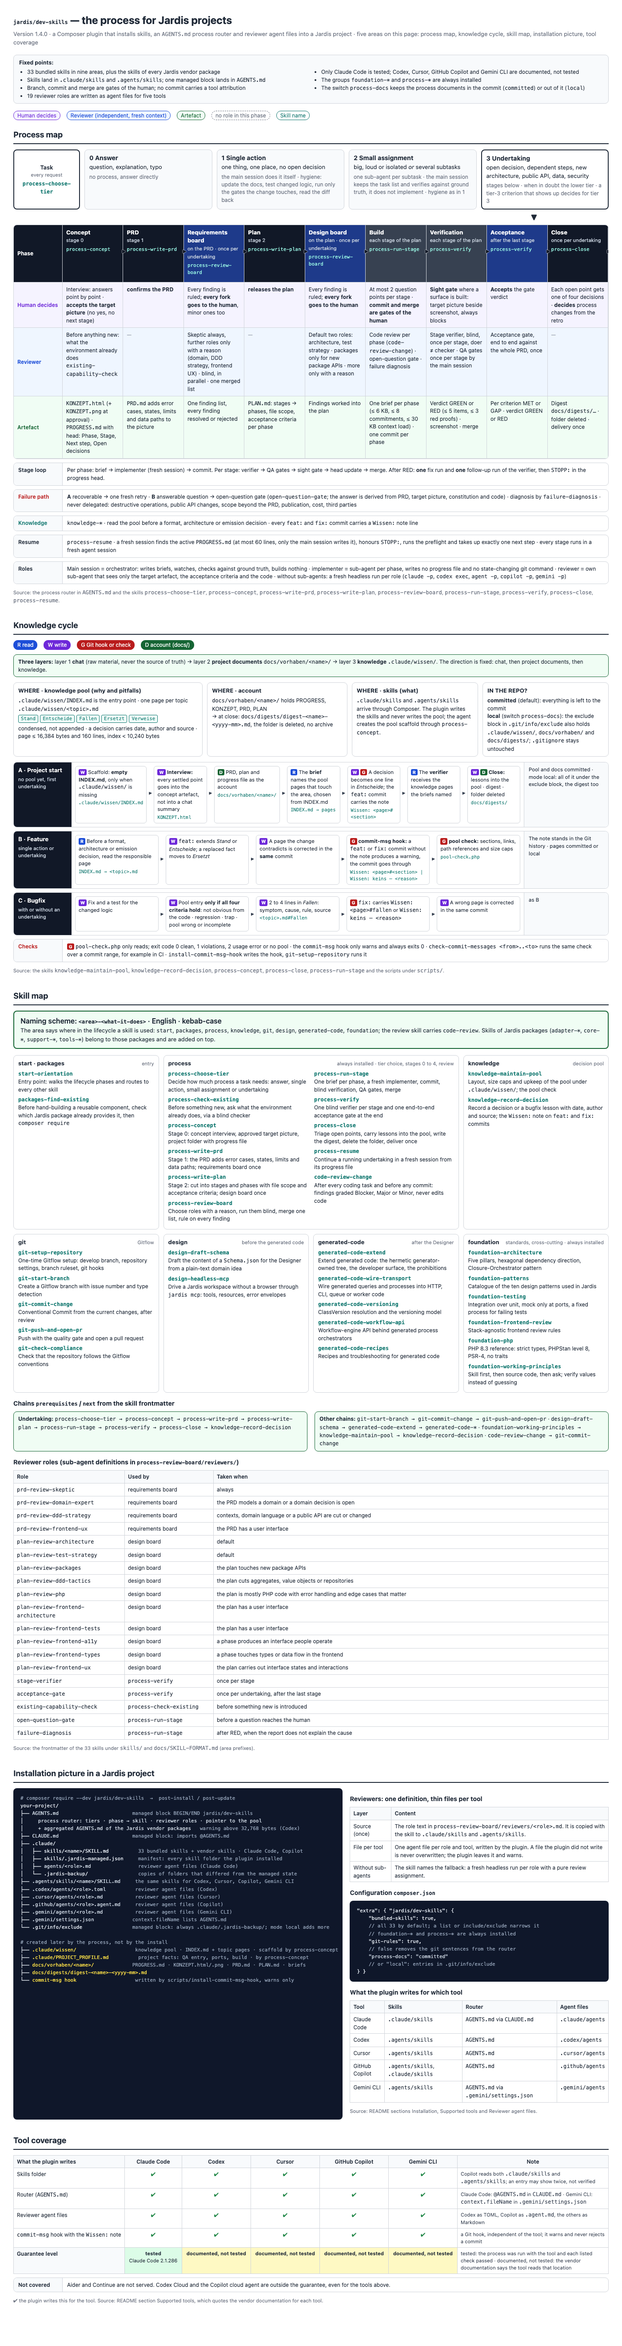
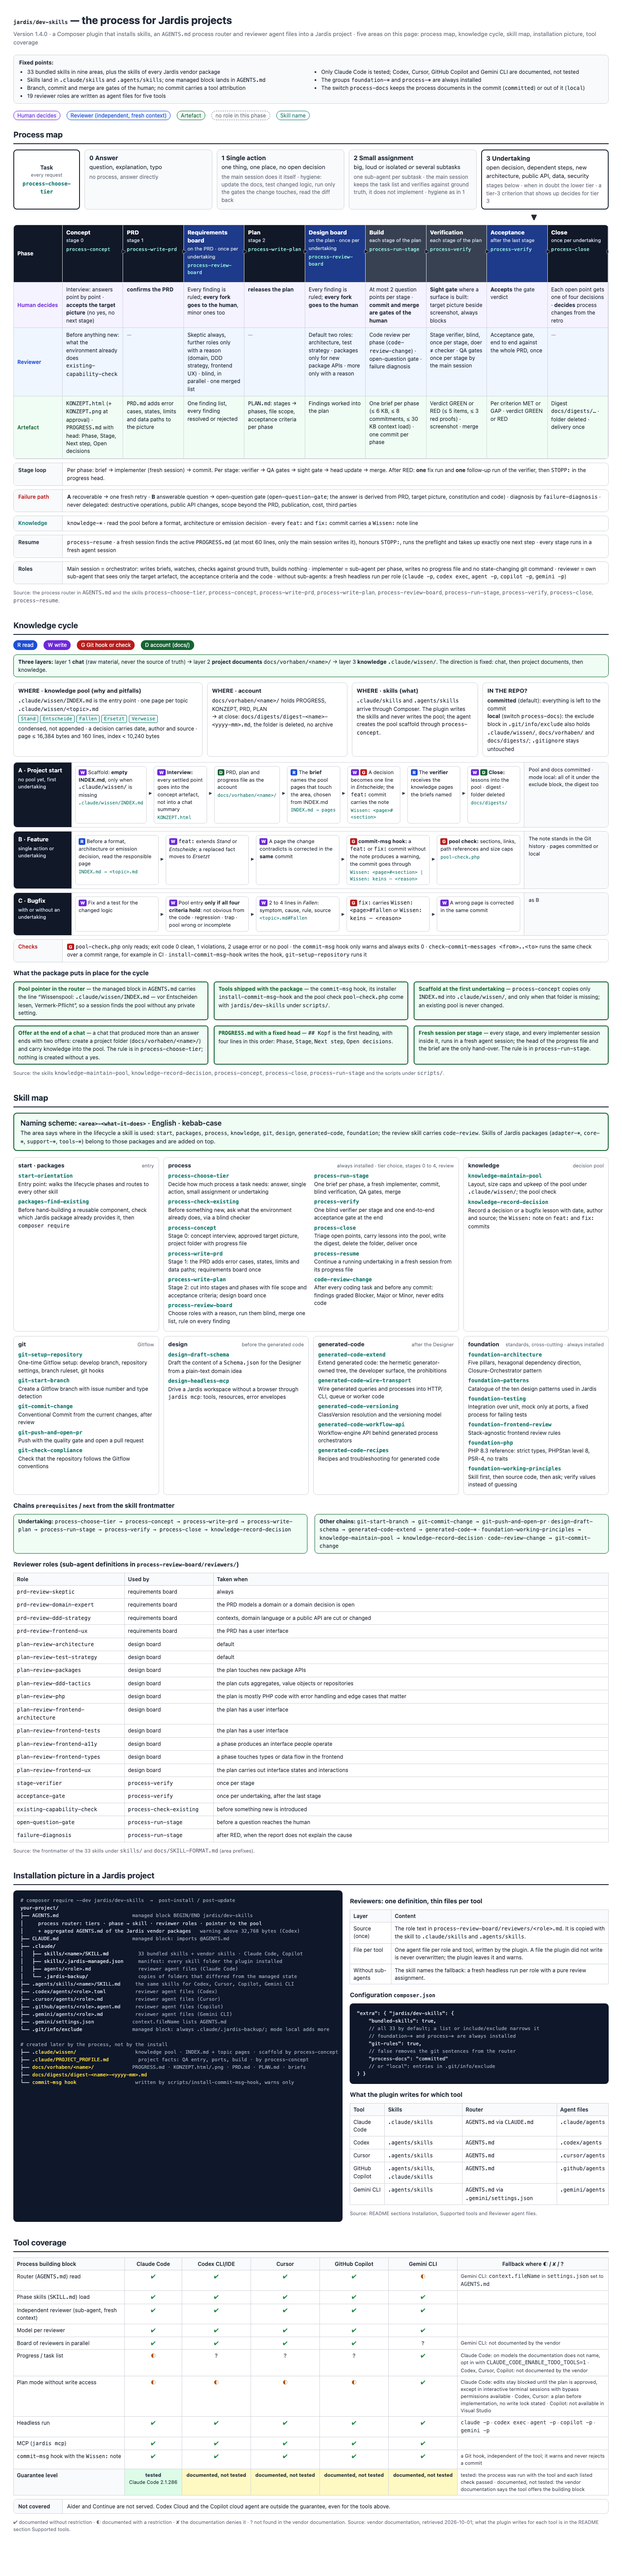
docs: fix downgrade note, add tool matrix and knowledge cards

Changed region(s): [[0.0, 0.0, 0.9829, 0.9951]]

diff --git a/docs/overview.html b/docs/overview.html
@@ -88,6 +88,11 @@ pre.tree{margin:0;overflow:hidden;font-size:11px!important;background:#0f172a;co
 .mx td.alt{text-align:left;font-size:11px;color:#374151}
 .y{color:#15803d;font-weight:700}.p{color:#b45309;font-weight:700}.n0{color:#b91c1c;font-weight:700}.q{color:var(--mute);font-weight:700}
 .guar td{font-size:11px}
+/* Cards for stated facts */
+.vcard{border:2px solid var(--vs);background:var(--vs-bg);border-radius:6px;padding:6px 9px;font-size:12px}
+.vcard b{color:#854d0e}
+.vcard.ok{border-color:var(--art);background:var(--art-bg)}
+.vcard.ok b{color:var(--art)}
 .layers{border:1px solid var(--art);background:var(--art-bg);border-radius:8px;padding:7px 10px;font-size:12px;margin-bottom:12px}
 .src{font-size:11px;color:var(--mute)}
 .fixed{border:1px solid var(--line);border-radius:8px;padding:8px 12px;background:var(--panel);font-size:12px;margin-bottom:16px}
@@ -269,6 +274,15 @@ pre.tree{margin:0;overflow:hidden;font-size:11px!important;background:#0f172a;co
 </div>
 
 <div class="band"><div class="bl" style="color:#b91c1c">Checks</div><div><span class="k g" style="display:inline-block;font-size:10px;font-weight:700;border-radius:3px;padding:0 4px;color:#fff;background:#b91c1c">G</span> <span class="mono">pool-check.php</span> only reads; exit code 0 clean, 1 violations, 2 usage error or no pool · the <span class="mono">commit-msg</span> hook only warns and always exits 0 · <span class="mono">check-commit-messages &lt;from&gt;..&lt;to&gt;</span> runs the same check over a commit range, for example in CI · <span class="mono">install-commit-msg-hook</span> writes the hook, <span class="mono">git-setup-repository</span> runs it</div></div>
+<h3>What the package puts in place for the cycle</h3>
+<div class="three">
+<div class="vcard ok"><b>Pool pointer in the router</b> — the managed block in <code>AGENTS.md</code> carries the line “Wissenspool: <code>.claude/wissen/INDEX.md</code> — vor Entscheiden lesen, Vermerk-Pflicht”, so a session finds the pool without any private setting.</div>
+<div class="vcard ok"><b>Tools shipped with the package</b> — the <code>commit-msg</code> hook, its installer <code>install-commit-msg-hook</code> and the pool check <code>pool-check.php</code> come with <code>jardis/dev-skills</code> under <code>scripts/</code>.</div>
+<div class="vcard ok"><b>Scaffold at the first undertaking</b> — <code>process-concept</code> copies only <code>INDEX.md</code> into <code>.claude/wissen/</code>, and only when that folder is missing; an existing pool is never changed.</div>
+<div class="vcard ok"><b>Offer at the end of a chat</b> — a chat that produced more than an answer ends with two offers: create a project folder (<code>docs/vorhaben/&lt;name&gt;/</code>) and carry knowledge into the pool. The rule is in <code>process-choose-tier</code>; nothing is created without a yes.</div>
+<div class="vcard ok"><b><code>PROGRESS.md</code> with a fixed head</b> — <code>## Kopf</code> is the first heading, with four lines in this order: <code>Phase</code>, <code>Stage</code>, <code>Next step</code>, <code>Open decisions</code>.</div>
+<div class="vcard ok"><b>Fresh session per stage</b> — every stage, and every implementer session inside it, runs in a fresh agent session; the head of the progress file and the brief are the only hand-over. The rule is in <code>process-run-stage</code>.</div>
+</div>
 <p class="src">Source: the skills <code>knowledge-maintain-pool</code>, <code>knowledge-record-decision</code>, <code>process-concept</code>, <code>process-close</code>, <code>process-run-stage</code> and the scripts under <code>scripts/</code>.</p>
 </section>
 
@@ -443,15 +457,21 @@ your-project/
 <section id="s5">
 <h2>Tool coverage</h2>
 <table class="mx">
-<tr><th style="width:250px">What the plugin writes</th><th>Claude Code</th><th>Codex</th><th>Cursor</th><th>GitHub Copilot</th><th>Gemini CLI</th><th style="width:340px">Note</th></tr>
-<tr><td>Skills folder</td><td class="y">✔</td><td class="y">✔</td><td class="y">✔</td><td class="y">✔</td><td class="y">✔</td><td class="alt">Copilot reads both <code>.claude/skills</code> and <code>.agents/skills</code>; an entry may show twice, not verified</td></tr>
-<tr><td>Router (<code>AGENTS.md</code>)</td><td class="y">✔</td><td class="y">✔</td><td class="y">✔</td><td class="y">✔</td><td class="y">✔</td><td class="alt">Claude Code: <code>@AGENTS.md</code> in <code>CLAUDE.md</code> · Gemini CLI: <code>context.fileName</code> in <code>.gemini/settings.json</code></td></tr>
-<tr><td>Reviewer agent files</td><td class="y">✔</td><td class="y">✔</td><td class="y">✔</td><td class="y">✔</td><td class="y">✔</td><td class="alt">Codex as TOML, Copilot as <code>.agent.md</code>, the others as Markdown</td></tr>
+<tr><th style="width:250px">Process building block</th><th>Claude Code</th><th>Codex CLI/IDE</th><th>Cursor</th><th>GitHub Copilot</th><th>Gemini CLI</th><th style="width:340px">Fallback where ◐ / ✘ / ?</th></tr>
+<tr><td>Router (<code>AGENTS.md</code>) read</td><td class="y">✔</td><td class="y">✔</td><td class="y">✔</td><td class="y">✔</td><td class="p">◐</td><td class="alt">Gemini CLI: <code>context.fileName</code> in <code>settings.json</code> set to <code>AGENTS.md</code></td></tr>
+<tr><td>Phase skills (<code>SKILL.md</code>) load</td><td class="y">✔</td><td class="y">✔</td><td class="y">✔</td><td class="y">✔</td><td class="y">✔</td><td class="alt"></td></tr>
+<tr><td>Independent reviewer (sub-agent, fresh context)</td><td class="y">✔</td><td class="y">✔</td><td class="y">✔</td><td class="y">✔</td><td class="y">✔</td><td class="alt"></td></tr>
+<tr><td>Model per reviewer</td><td class="y">✔</td><td class="y">✔</td><td class="y">✔</td><td class="y">✔</td><td class="y">✔</td><td class="alt"></td></tr>
+<tr><td>Board of reviewers in parallel</td><td class="y">✔</td><td class="y">✔</td><td class="y">✔</td><td class="y">✔</td><td class="q">?</td><td class="alt">Gemini CLI: not documented by the vendor</td></tr>
+<tr><td>Progress / task list</td><td class="p">◐</td><td class="q">?</td><td class="q">?</td><td class="q">?</td><td class="y">✔</td><td class="alt">Claude Code: on models the documentation does not name, opt in with <code>CLAUDE_CODE_ENABLE_TODO_TOOLS=1</code> · Codex, Cursor, Copilot: not documented by the vendor</td></tr>
+<tr><td>Plan mode without write access</td><td class="p">◐</td><td class="p">◐</td><td class="p">◐</td><td class="p">◐</td><td class="y">✔</td><td class="alt">Claude Code: edits stay blocked until the plan is approved, except in interactive terminal sessions with bypass permissions available · Codex, Cursor: a plan before implementation, no write lock stated · Copilot: not available in Visual Studio</td></tr>
+<tr><td>Headless run</td><td class="y">✔</td><td class="y">✔</td><td class="y">✔</td><td class="y">✔</td><td class="y">✔</td><td class="alt"><code>claude -p</code> · <code>codex exec</code> · <code>agent -p</code> · <code>copilot -p</code> · <code>gemini -p</code></td></tr>
+<tr><td>MCP (<code>jardis mcp</code>)</td><td class="y">✔</td><td class="y">✔</td><td class="y">✔</td><td class="y">✔</td><td class="y">✔</td><td class="alt"></td></tr>
 <tr><td><code>commit-msg</code> hook with the <code>Wissen:</code> note</td><td class="y">✔</td><td class="y">✔</td><td class="y">✔</td><td class="y">✔</td><td class="y">✔</td><td class="alt">a Git hook, independent of the tool; it warns and never rejects a commit</td></tr>
-<tr class="guar"><th>Guarantee level</th><td style="background:#dcfce7"><b>tested</b><br>Claude Code 2.1.286</td><td style="background:#fef9c3"><b>documented, not tested</b></td><td style="background:#fef9c3"><b>documented, not tested</b></td><td style="background:#fef9c3"><b>documented, not tested</b></td><td style="background:#fef9c3"><b>documented, not tested</b></td><td class="alt">tested: the process was run with the tool and each listed check passed · documented, not tested: the vendor documentation says the tool reads that location</td></tr>
+<tr class="guar"><th>Guarantee level</th><td style="background:#dcfce7"><b>tested</b><br>Claude Code 2.1.286</td><td style="background:#fef9c3"><b>documented, not tested</b></td><td style="background:#fef9c3"><b>documented, not tested</b></td><td style="background:#fef9c3"><b>documented, not tested</b></td><td style="background:#fef9c3"><b>documented, not tested</b></td><td class="alt">tested: the process was run with the tool and each listed check passed · documented, not tested: the vendor documentation says the tool offers the building block</td></tr>
 </table>
 <div class="band"><div class="bl">Not covered</div><div>Aider and Continue are not served. Codex Cloud and the Copilot cloud agent are outside the guarantee, even for the tools above.</div></div>
-<p class="src">✔ the plugin writes this for the tool. Source: README section Supported tools, which quotes the vendor documentation for each tool.</p>
+<p class="src">✔ documented without restriction · ◐ documented with a restriction · ✘ the documentation denies it · ? not found in the vendor documentation. Source: vendor documentation, retrieved 2026-10-01; what the plugin writes for each tool is in the README section Supported tools.</p>
 </section>
 
 </div>

diff --git a/tests/Integration/Docs/OverviewTest.php b/tests/Integration/Docs/OverviewTest.php
@@ -30,7 +30,7 @@ final class OverviewTest extends TestCase
 
         $document = new DOMDocument();
         $previous = libxml_use_internal_errors(true);
-        $document->loadHTML($this->html);
+        $document->loadHTML('<?xml encoding="utf-8"?>' . $this->html);
         libxml_clear_errors();
         libxml_use_internal_errors($previous);
 
@@ -60,6 +60,38 @@ final class OverviewTest extends TestCase
     public function testPageHasFiveAreas(): void
     {
         self::assertSame(self::AREAS, $this->xpath->query('//h2')->length);
+    }
+
+    public function testToolCoverageMatrixHasFiveToolColumnsAndLegend(): void
+    {
+        $matrix = "//section[@id='s5']//table[contains(concat(' ', normalize-space(@class), ' '), ' mx ')]";
+
+        $headers = [];
+        foreach ($this->xpath->query($matrix . '//tr[1]/th') as $cell) {
+            $headers[] = trim($cell->textContent);
+        }
+        self::assertCount(7, $headers, 'building block, five tools, fallback');
+        self::assertSame(
+            ['Claude Code', 'Codex CLI/IDE', 'Cursor', 'GitHub Copilot', 'Gemini CLI'],
+            array_slice($headers, 1, 5)
+        );
+
+        $rows = $this->xpath->query($matrix . "//tr[not(contains(@class, 'guar'))][position() > 1]");
+        self::assertGreaterThanOrEqual(10, $rows->length, 'nine building blocks plus the commit-msg hook');
+        foreach ($rows as $row) {
+            $symbols = [];
+            foreach ($this->xpath->query('td[position() >= 2 and position() <= 6]', $row) as $cell) {
+                $symbols[] = trim($cell->textContent);
+            }
+            self::assertCount(5, $symbols);
+            self::assertSame([], array_values(array_diff($symbols, ['✔', '◐', '✘', '?'])));
+        }
+
+        $legend = $this->xpath->query("//section[@id='s5']//p[contains(@class, 'src')]")->item(0);
+        self::assertNotNull($legend);
+        foreach (['✔', '◐', '✘', '?', 'retrieved 2026-10-01'] as $part) {
+            self::assertStringContainsString($part, $legend->textContent);
+        }
     }
 
     public function testPageStatesFactsAndLeavesNothingForDecision(): void

diff --git a/tests/Integration/E2E/FullInstallEndToEndTest.php b/tests/Integration/E2E/FullInstallEndToEndTest.php
@@ -19,7 +19,8 @@ use PHPUnit\Framework\TestCase;
 /**
  * The full install with real Composer runs, taken from `git archive HEAD` as an `artifact`
  * repository: exactly what a consumer downloads, `export-ignore` included. Only committed files
- * are in the archive, so these tests measure the state of HEAD, not of the working tree.
+ * are in the archive, so these tests measure the committed state (`git archive HEAD`), not the
+ * working tree; uncommitted changes are checked by the rest of the suite.
  *
  * Covers the install picture (33 skills in both folders, 19 reviewers in five formats, router,
  * CLAUDE.md block, Gemini entry, manifest), the repeat run, the update from 1.3.6 with the

diff --git a/README.md b/README.md
@@ -164,7 +164,7 @@ The plugin acts on `composer install` and `composer update` (Composer's post-ins
 
 ## Update and downgrade
 
-**No downgrade.** If `.claude/skills/.jardis-managed.json` was written by a newer plugin version (or a newer manifest schema), an older plugin changes nothing and prints a warning. This holds for install and uninstall. A manifest the plugin cannot read is ignored with a warning.
+**No downgrade.** A downgrade below 1.4.0 is not supported. Version 1.3.x does not know the manifest `.claude/skills/.jardis-managed.json`; it manages skill folders by name prefix (`adapter-`, `core-`, `support-`, `tools-`, `schema-`, `plan-`, `platform-`, `rules-`). From 1.4.0 on, a guard applies: if the manifest was written by a newer plugin version (or a newer manifest schema), an older plugin changes nothing and prints a warning. This holds for install and uninstall. A manifest the plugin cannot read is ignored with a warning.
 
 **Update from 1.3.x.** Version 1.4.0 renamed 18 bundle skills to a scheme of area prefixes (for example `rules-architecture` is now `foundation-architecture`; `RenamedSkills` lists all 18). The update migrates as follows:
 
@@ -461,7 +461,7 @@ make generate-catalog           # Generate skills/packages-find-existing/SKILL.m
 make generate-catalog-check     # Check that the checked-in SKILL.md matches the manifest (exit≠0 on drift)
 make check-catalog-packagist    # Check Packagist for Jardis packages missing from catalog/manifest.json (warning only, exit 0)
 make check-public-text          # Check publicly shipped texts for home paths and private denylist terms (env PUBLIC_TEXT_DENYLIST)
-make check-changelog-top VERSION=1.4.0  # Check that the top version heading of CHANGELOG.md is the version to tag
+make check-changelog-top VERSION=1.4.0  # Exit 0 if the top version heading of CHANGELOG.md is the version to tag, any other exit means not releasable (the message says why)
 make shell                      # Run a shell inside the phpcli container
 make clean                      # Stop containers and clean up volumes
 make remove                     # Stop and remove containers, images, network and caches
@@ -469,7 +469,7 @@ make ssh-agent                  # Get SSH agent ready
 make install-hooks              # Install git hooks (pre-commit + pre-push)
 ```
 
-Before a release tag run `make check-changelog-top VERSION=<x.y.z>`; the release notes are in [CHANGELOG.md](CHANGELOG.md). Notes for agents working in this repository are in [AGENTS.md](AGENTS.md).
+Before a release tag run `make check-changelog-top VERSION=<x.y.z>`: exit 0 means the version matches, any other exit means the tag is not releasable and the message says why (`make` reports every failure as exit 2). The release notes are in [CHANGELOG.md](CHANGELOG.md). Notes for agents working in this repository are in [AGENTS.md](AGENTS.md).
 
 Architecture: Closure-Orchestrator pattern (`src/SkillInstaller.php`, `src/SkillUninstaller.php`), handlers as `__invoke()` closures under `src/Handler/`, value objects under `src/Data/`. Composer events via `Composer\Plugin\PluginInterface` + `Composer\EventDispatcher\EventSubscriberInterface` in `src/Plugin.php`.
 
